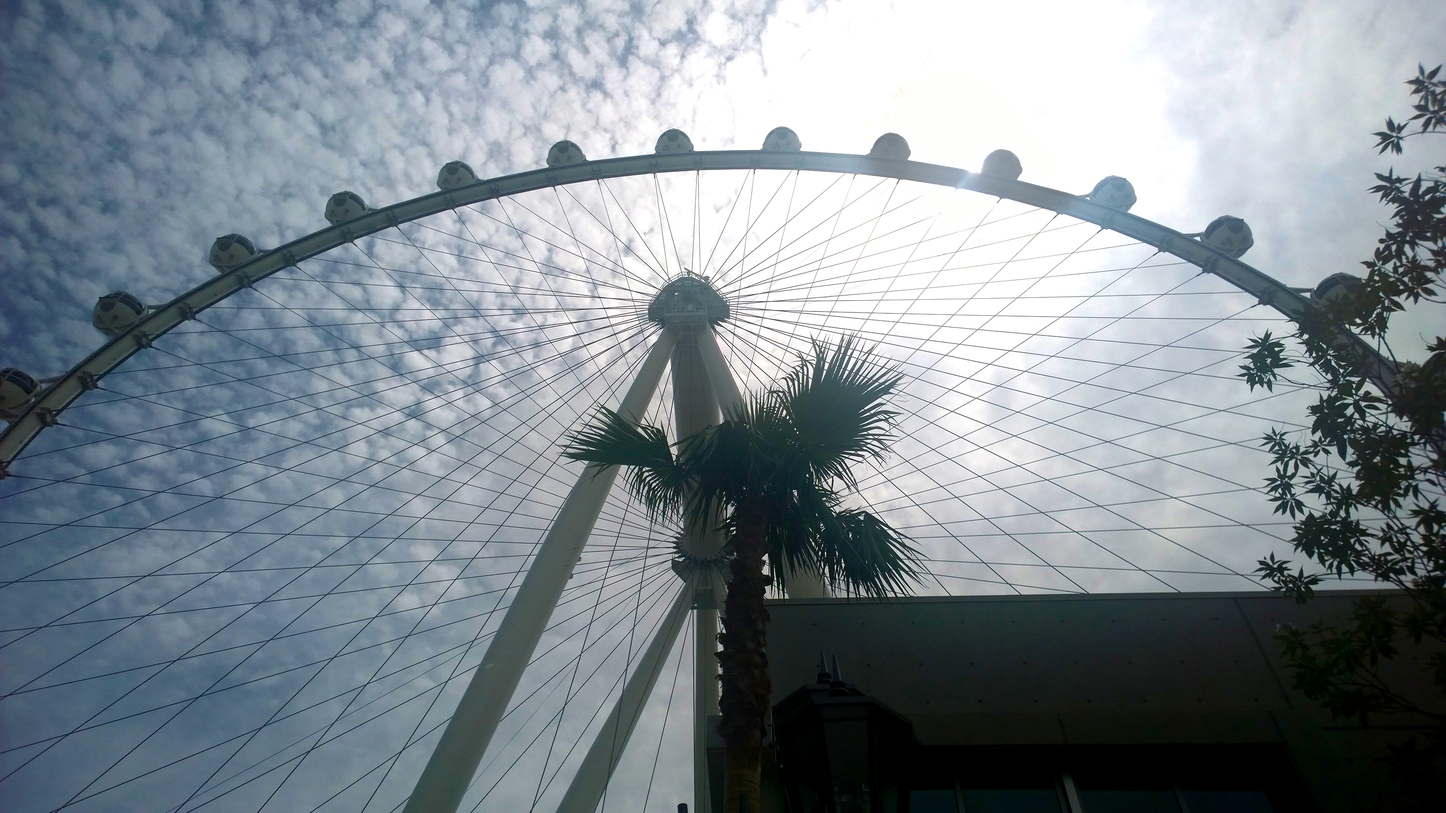
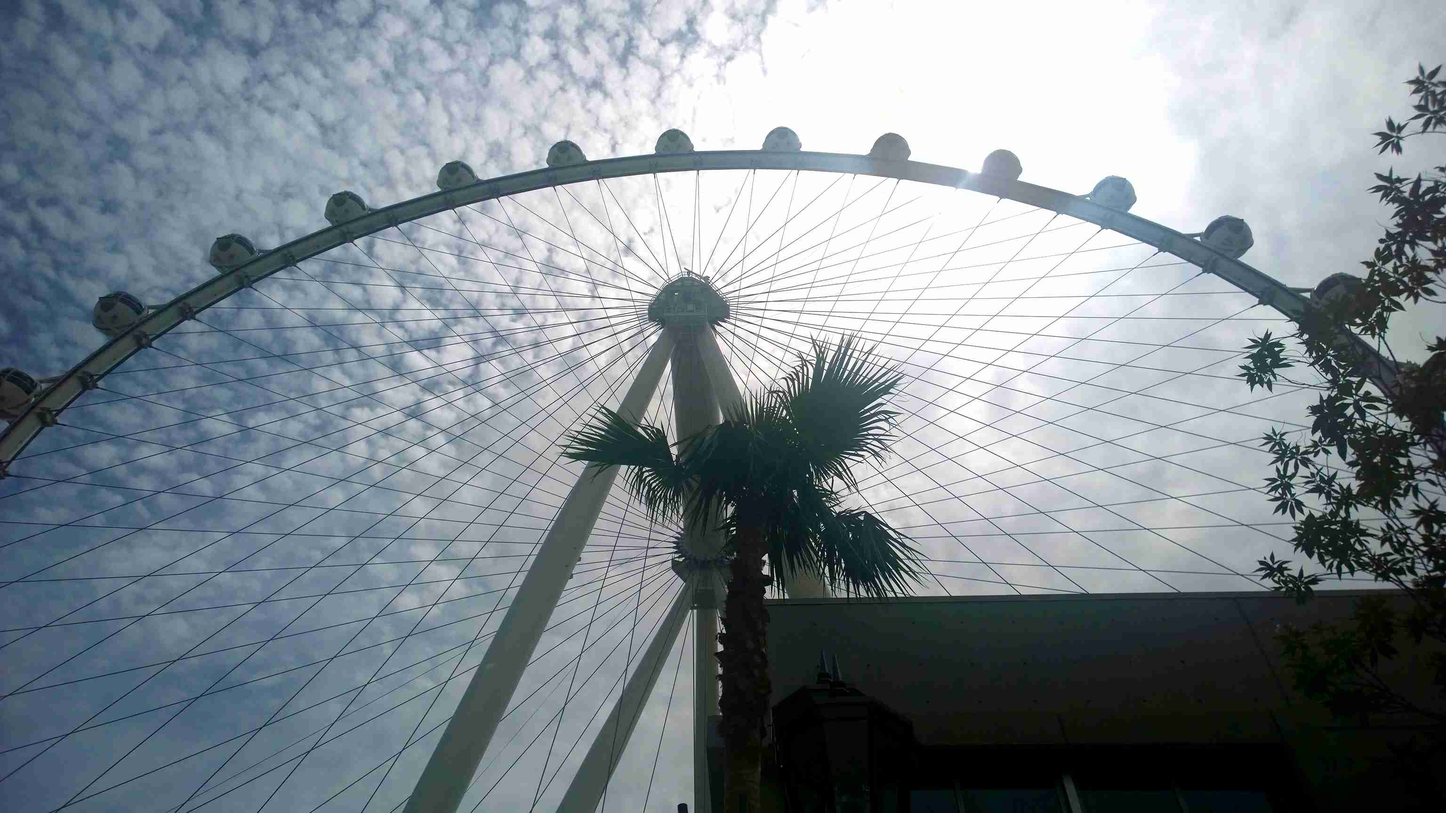
img compression and tweaking blur effect

Changed region(s): [[0.3125, 0.3125, 0.6562, 0.7812], [0.3438, 0.5938, 0.375, 0.625]]

diff --git a/src/lib/styles/global.sass b/src/lib/styles/global.sass
@@ -133,6 +133,7 @@ a
 		color: dsn.$landing-upper-fg
 		font-size: 3.0em
 		margin: 0
+		padding: 0 9px
 		@media (min-width: dsn.$bp-phablet)
 			font-size: 4em
 
@@ -141,6 +142,7 @@ a
 
 .img-overlay
 	background-color: dsn.$main-img-ovly
+	-moz-filter: blur(3px)
 	backdrop-filter: blur(3px)
 
 .icon-inline
